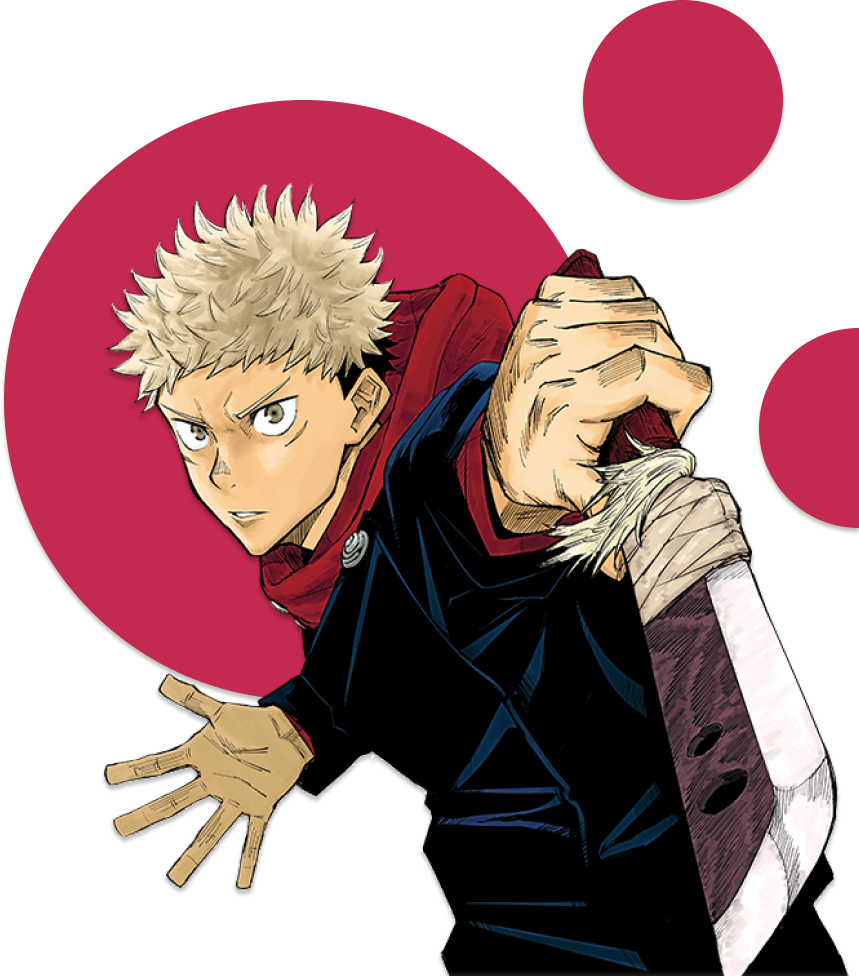
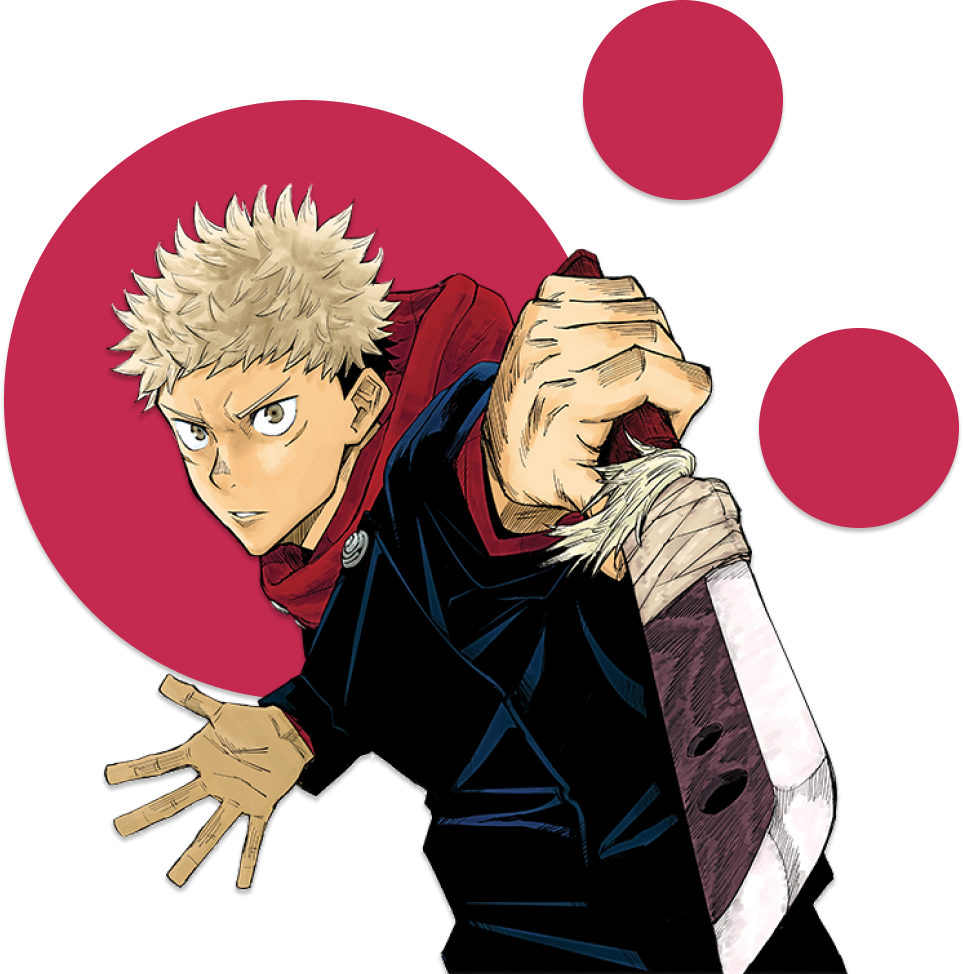
fix begin-img

diff --git a/style.css b/style.css
@@ -140,35 +140,7 @@ section {
   right: 0;
   bottom: -0.6rem;
   max-width: 100%;
-}
-
-.ball {
-  border-radius: 50%;
-  position: absolute;
-}
-
-.ball.ball-1 {
-  background: var(--bg-color-primary);
-  height: 60rem;
-  width: 60rem;
-  top: 7rem;
-  right: 24rem;
-}
-
-.ball.ball-2 {
-  background: var(--bg-color-primary);
-  height: 20rem;
-  width: 20rem;
-  top: 30rem;
-  right: -10rem;
-}
-
-.ball.ball-3 {
-  background: var(--bg-color-primary);
-  height: 20rem;
-  width: 20rem;
-  top: 4rem;
-  right: 4rem;
+  max-height: 80%;
 }
 
 header.sticky {
@@ -254,7 +226,6 @@ h4 {
 .container-card-img img {
   border-radius: 1.2rem 1.2rem 0 0;
   max-width: 100%;
-  /* height: 12rem; */
 }
 
 .container-card-number {
@@ -299,7 +270,6 @@ h4 {
 #container-galeria {
   display: grid;
   grid-template-columns: repeat(3, 1fr);
-  /* grid-template-columns: repeat(auto-fit, minmax(25rem, auto)); */
 }
 
 .galeria {
@@ -319,7 +289,7 @@ footer {
 }
 
 footer .begin-btn {
-  width: 80%;
+  max-width: 80%;
 }
 
 /* MEDIAS QUERIES */
@@ -339,32 +309,9 @@ footer .begin-btn {
     overflow: auto;
     align-self: center;
     max-width: 100%;
+    max-height: 80%;
     position: relative;
     bottom: -11rem;
-  }
-
-  .ball.ball-1 {
-    background: var(--bg-color-primary);
-    height: 90%;
-    width: 90%;
-    top: 20%;
-    right: 10%;
-  }
-
-  .ball.ball-2 {
-    background: var(--bg-color-primary);
-    height: 25%;
-    width: 25%;
-    top: 60%;
-    right: -25%;
-  }
-
-  .ball.ball-3 {
-    background: var(--bg-color-primary);
-    height: 25%;
-    width: 25%;
-    top: 2%;
-    right: 0%;
   }
 
   header {

diff --git a/index.html b/index.html
@@ -46,10 +46,10 @@
                     <a href="https://pay.hotmart.com/Q7370736D?checkoutMode=10&_hi=eyJjaWQiOiIxNjc4MTg2OTI0NjA4MTk2NTYyMTI2ODQzNDE0NTYwIiwiYmlkIjoiMTY3ODE4NjkyNDYwODE5NjU2MjEyNjg0MzQxNDU2MCIsInNpZCI6IjliMDRkMzQxZWI4YTRlZWJiODA1MzE2NzdlNzJmZTMxIn0=.1682550511953" target="_blank" class="begin-btn">QUERO APRENDER!</a>
                 </div>
                 <div class="begin-img">
-                    <div class="ball ball-1 animate__animated animate__zoomIn"></div>
+                    <!-- <div class="ball ball-1 animate__animated animate__zoomIn"></div>
                     <div class="ball ball-2 animate__animated animate__zoomIn"></div>
-                    <div class="ball ball-3 animate__animated animate__zoomIn"></div>
-                    <img src="./assets/images/draw-jujutsu.png" class="animate__animated animate__zoomIn" alt="imagem de desenho de anime"/>
+                    <div class="ball ball-3 animate__animated animate__zoomIn"></div> -->
+                    <img src="./assets/images/draw-jujutsu-red.png" class="animate__animated animate__zoomIn" alt="imagem de desenho de anime"/>
                 </div>
                 <!-- <div id="begin-img"> -->
                 
